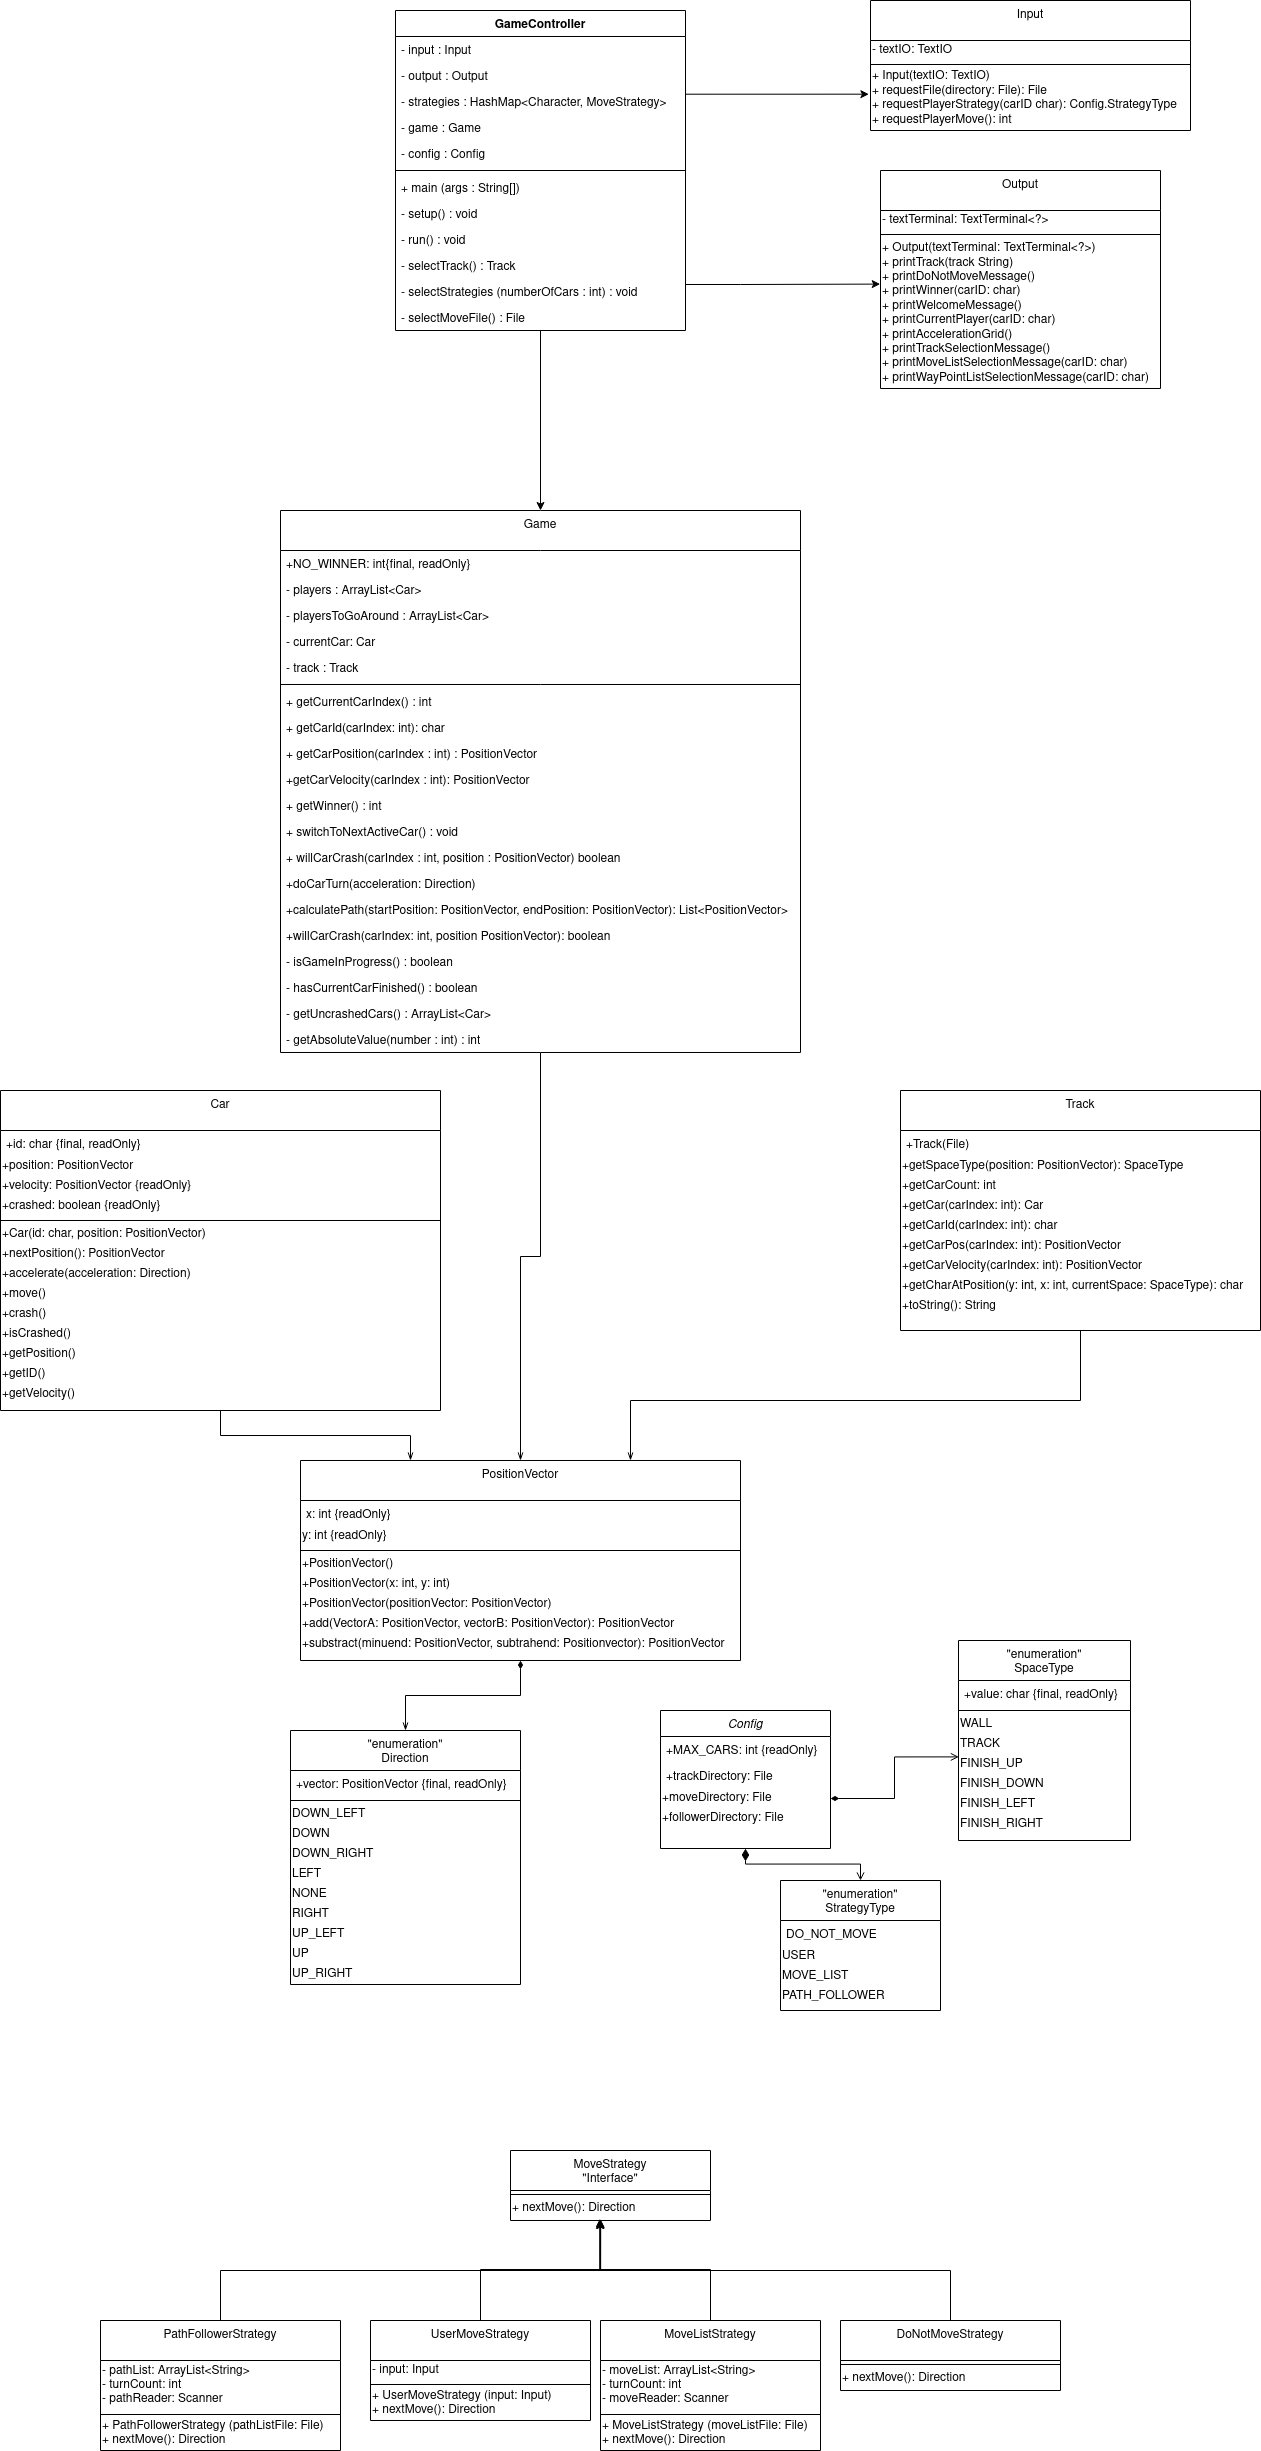
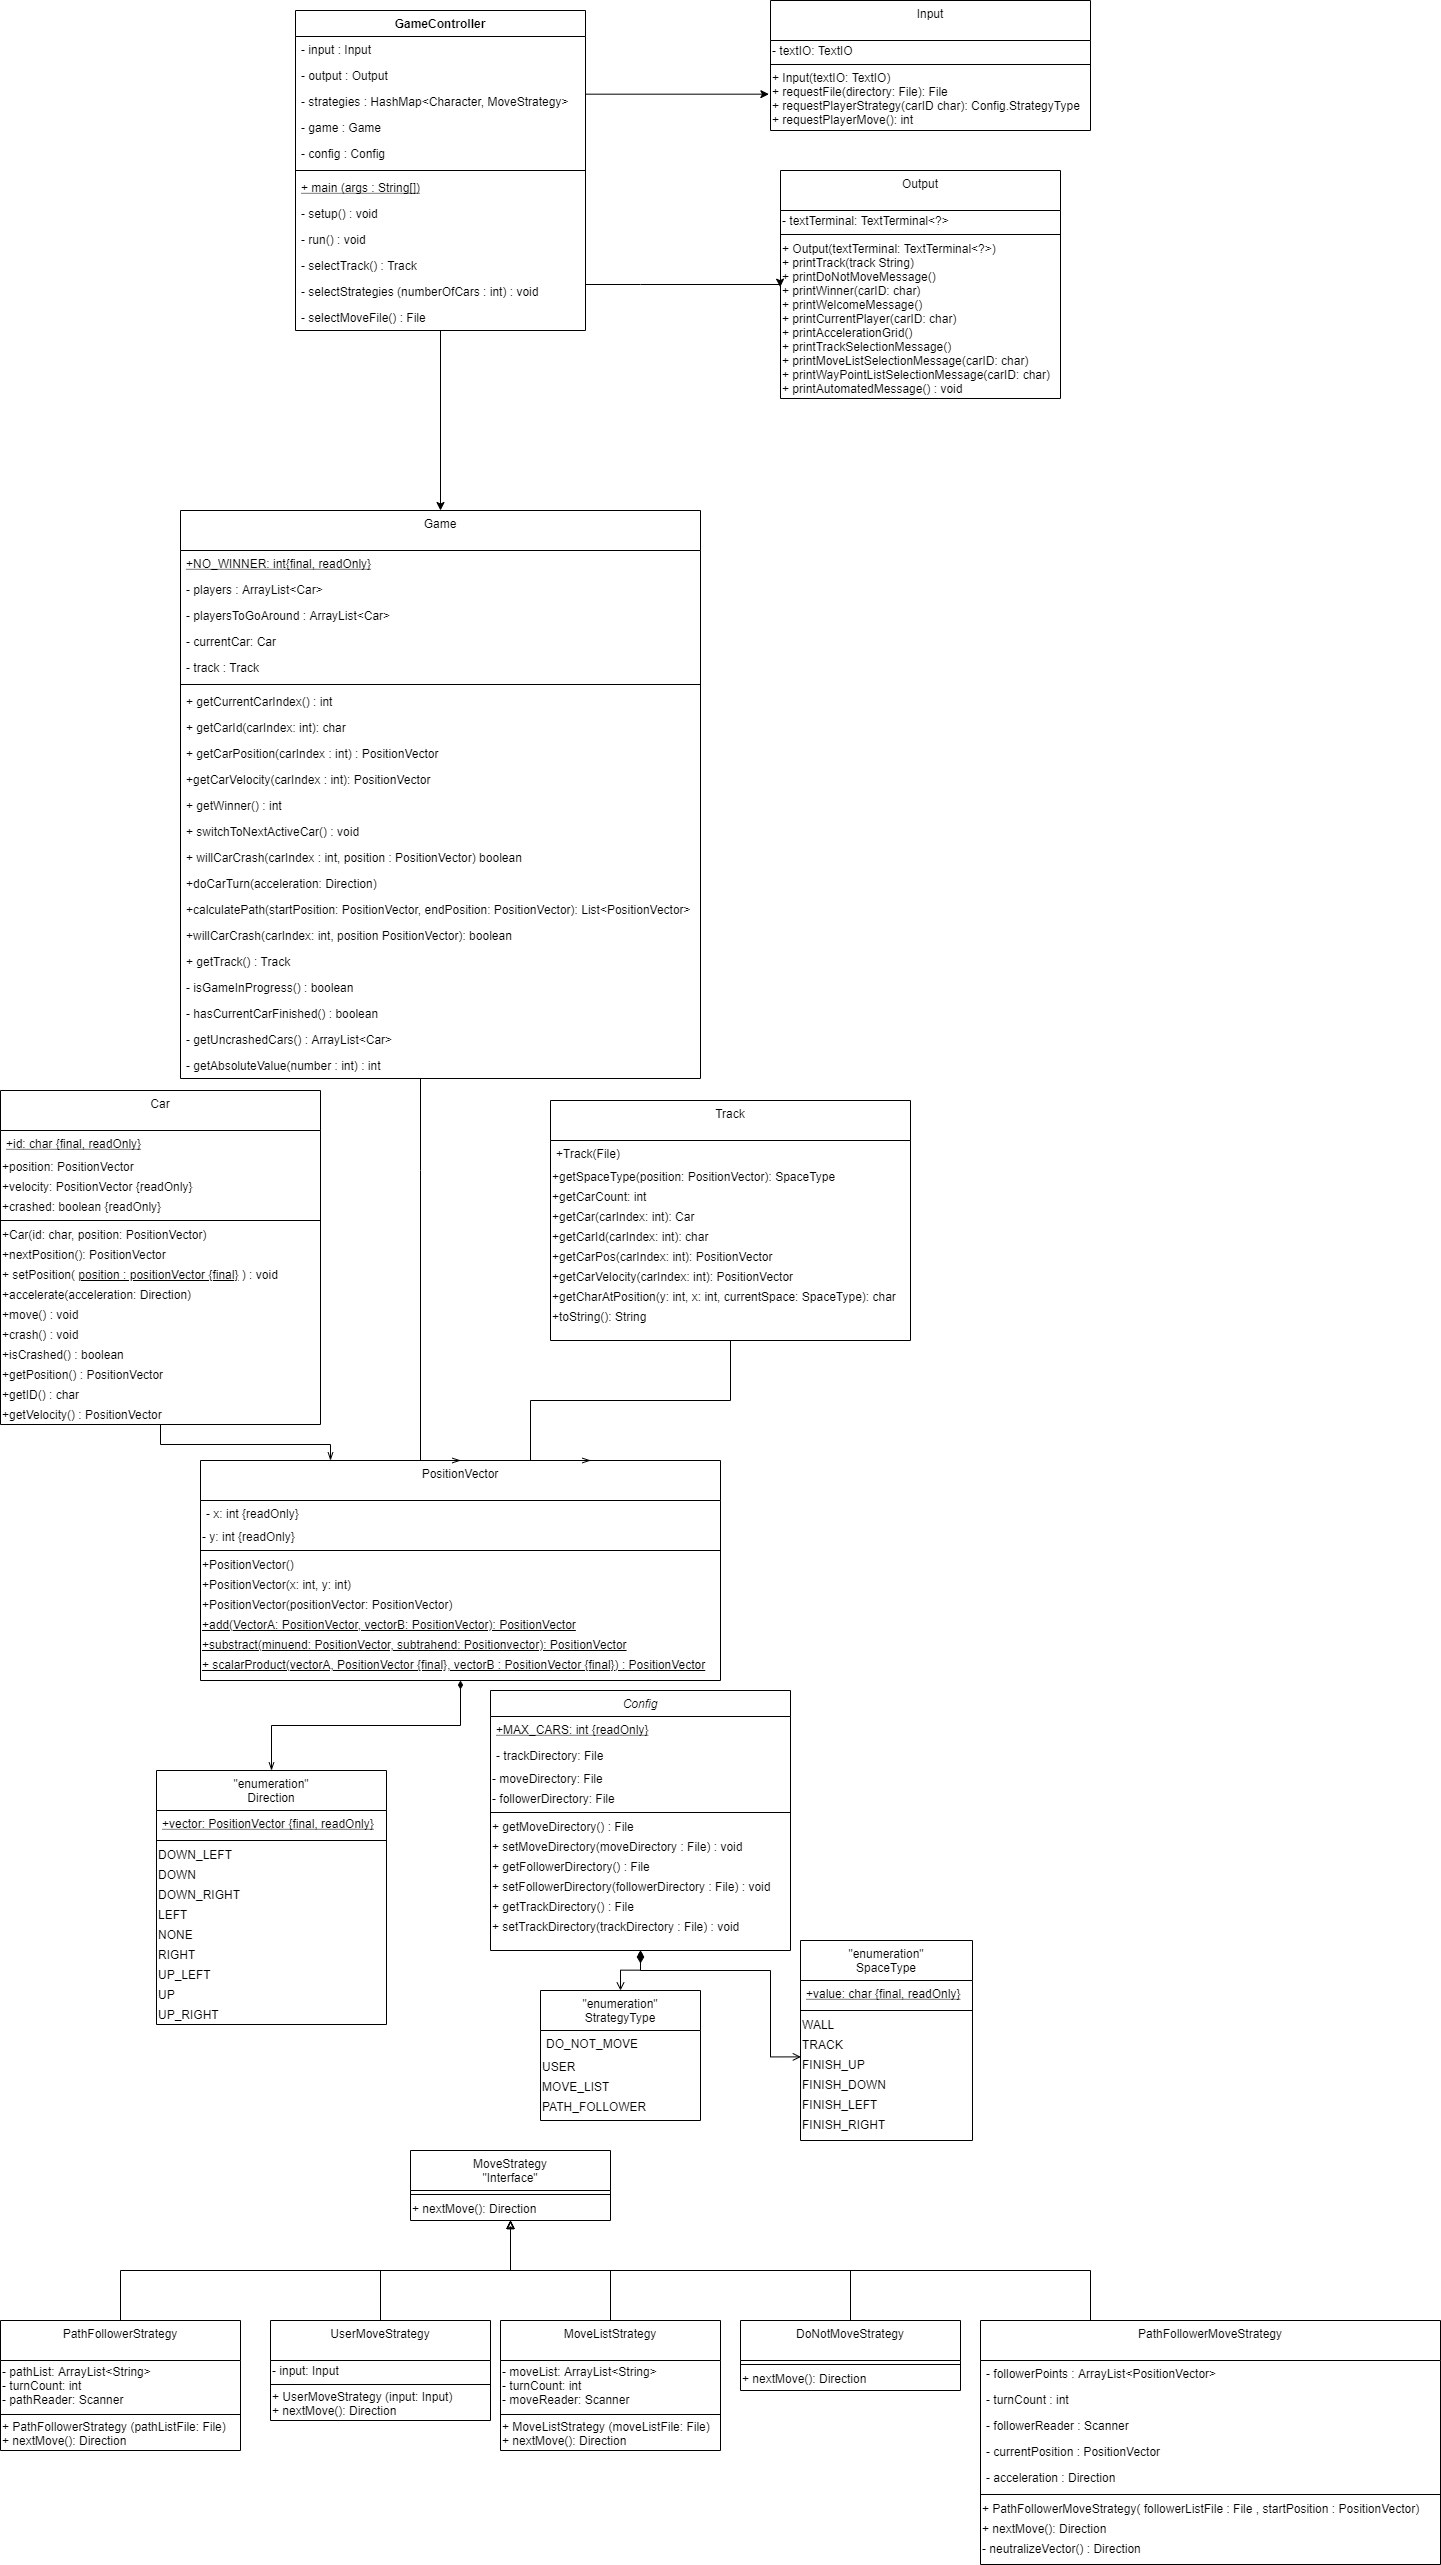
update class diagramm

diff --git a/src/main/java/ch/zhaw/pm2/racetrack/strategy/PathFollowerMoveStrategy.java b/src/main/java/ch/zhaw/pm2/racetrack/strategy/PathFollowerMoveStrategy.java
@@ -79,33 +79,7 @@ public class PathFollowerMoveStrategy implements MoveStrategy {
 			return Direction.NONE;
 
 		if (acceleration != Direction.NONE) {
-			Direction newDirection = Direction.NONE;
-			switch (acceleration) {
-			case RIGHT:
-				newDirection = Direction.LEFT;
-				break;
-			case DOWN_RIGHT:
-				newDirection = Direction.UP_LEFT;
-				break;
-			case DOWN:
-				newDirection = Direction.UP;
-				break;
-			case DOWN_LEFT:
-				newDirection = Direction.UP_RIGHT;
-				break;
-			case LEFT:
-				newDirection = Direction.RIGHT;
-				break;
-			case UP_LEFT:
-				newDirection = Direction.DOWN_RIGHT;
-				break;
-			case UP:
-				newDirection = Direction.DOWN;
-				break;
-			case UP_RIGHT:
-				newDirection = Direction.DOWN_LEFT;
-				break;
-			}
+			Direction newDirection = neutralizeVector();	
 			acceleration = Direction.NONE;
 			return newDirection;
 		}
@@ -150,5 +124,36 @@ public class PathFollowerMoveStrategy implements MoveStrategy {
 			}
 		}
 		return acceleration;
+	}
+	
+	private Direction neutralizeVector() {
+		Direction newDirection = Direction.NONE;
+		switch (acceleration) {
+		case RIGHT:
+			newDirection = Direction.LEFT;
+			break;
+		case DOWN_RIGHT:
+			newDirection = Direction.UP_LEFT;
+			break;
+		case DOWN:
+			newDirection = Direction.UP;
+			break;
+		case DOWN_LEFT:
+			newDirection = Direction.UP_RIGHT;
+			break;
+		case LEFT:
+			newDirection = Direction.RIGHT;
+			break;
+		case UP_LEFT:
+			newDirection = Direction.DOWN_RIGHT;
+			break;
+		case UP:
+			newDirection = Direction.DOWN;
+			break;
+		case UP_RIGHT:
+			newDirection = Direction.DOWN_LEFT;
+			break;
+		}
+		return newDirection;
 	}
 }
